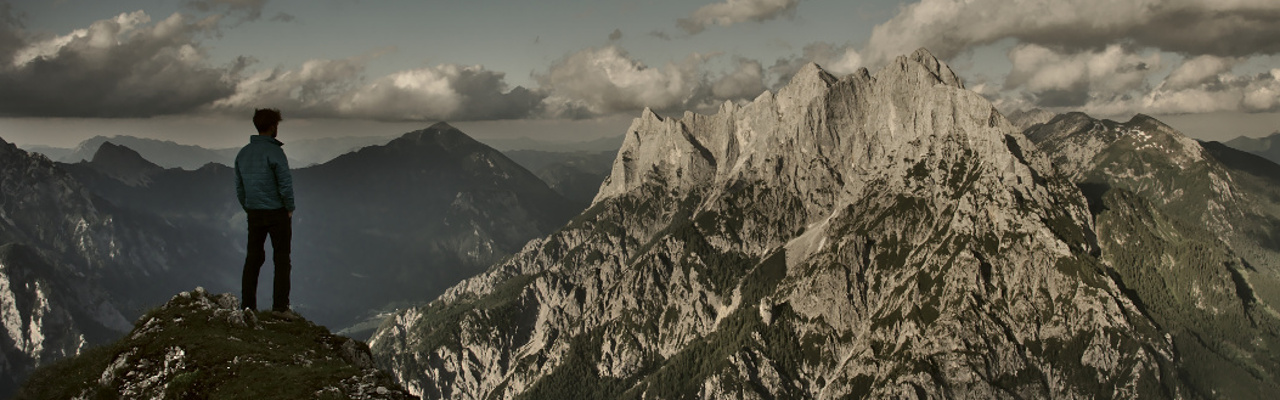
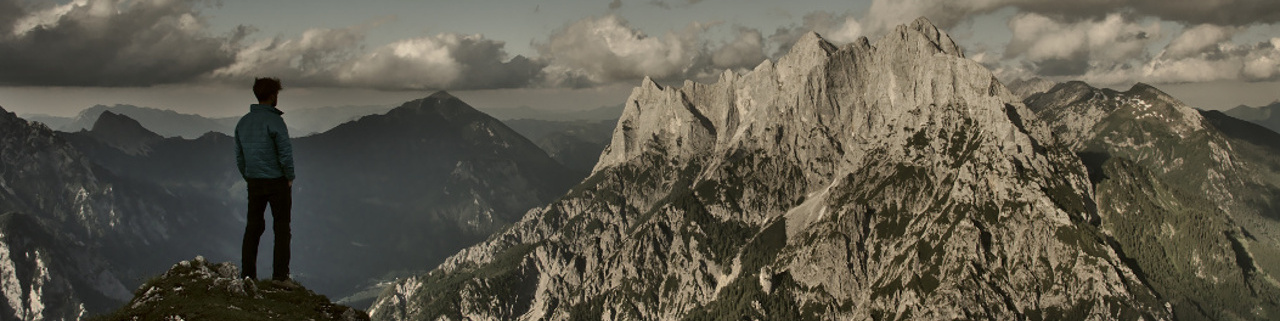
changed height of images

diff --git a/_pages/publications.md b/_pages/publications.md
@@ -2,7 +2,7 @@
 title: Publications
 permalink: /publications/
 header:
-  image: /images/publications.jpeg
+  image: /images/publications.jpg
 --- 
 
 <div id="biblio"></div>
